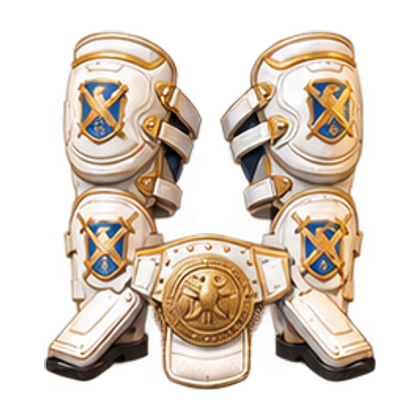
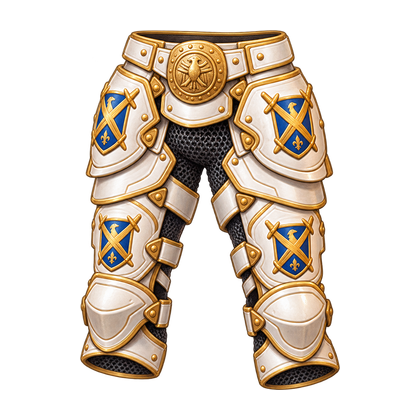
Redesign special scrolls and correct Warrior armor trousers

diff --git a/src/components/icons/SpecialScrollArt.jsx b/src/components/icons/SpecialScrollArt.jsx
@@ -1,0 +1,50 @@
+import {useId} from 'react';
+
+// Centered silhouettes share the same safe area in bags, shops and forge slots.
+export default function SpecialScrollArt({item,size=48}) {
+ const id=useId(),bonus=item.kind==='bonusScroll',race=item.kind==='raceScroll';
+ const accent=bonus?'#c68aff':race?'#66e5ed':'#ffb85b';
+ const dark=bonus?'#472668':race?'#164d61':'#633722';
+ return <svg width={size} height={size} viewBox="0 0 100 100" role="img" aria-label={item.name||'Parşömen'} data-scroll-art={item.kind} style={{display:'block',flexShrink:0,overflow:'hidden'}}>
+  <defs>
+   <linearGradient id={`${id}-paper`} x1="0" y1="0" x2="1" y2="1"><stop stopColor="#fff6d8"/><stop offset=".45" stopColor="#e7cca0"/><stop offset="1" stopColor="#ad7843"/></linearGradient>
+   <linearGradient id={`${id}-gold`} x1="0" y1="0" x2="1" y2="1"><stop stopColor="#7c4b20"/><stop offset=".25" stopColor="#fff1b6"/><stop offset=".48" stopColor="#cc9146"/><stop offset=".7" stopColor="#ffe6a0"/><stop offset="1" stopColor="#87551f"/></linearGradient>
+   <linearGradient id={`${id}-inlay`} x1="0" y1="0" x2="0" y2="1"><stop stopColor={accent}/><stop offset=".5" stopColor={dark}/><stop offset="1" stopColor="#151b2d"/></linearGradient>
+   <radialGradient id={`${id}-gem`} cx=".35" cy=".25"><stop stopColor="#ffffff"/><stop offset=".22" stopColor={accent}/><stop offset="1" stopColor={dark}/></radialGradient>
+  </defs>
+  {bonus&&<g fill={`url(#${id}-gold)`} stroke="#6e401d" strokeWidth=".7">
+   <path d="M29 32L9 22L15 40L26 49L12 43L19 60L29 66ZM71 32L91 22L85 40L74 49L88 43L81 60L71 66Z"/>
+   <path d="M15 31L27 39M19 48L28 55M85 31L73 39M81 48L72 55" fill="none" stroke="#fff0bf"/>
+  </g>}
+  <path d="M24 16H76L72 82H28Z" fill={`url(#${id}-paper)`} stroke="#553a26" strokeWidth="2"/>
+  <path d="M30 25H70L67 74H33Z" fill={dark} stroke={`url(#${id}-gold)`} strokeWidth="2"/>
+  <path d="M34 29H66L63 69H37Z" fill={`url(#${id}-inlay)`} stroke={accent} strokeOpacity=".55" strokeWidth=".8"/>
+  <g fill={`url(#${id}-paper)`} stroke="#674325" strokeWidth="1.5">
+   <path d="M25 13H75Q81 13 81 19Q81 25 75 25H25Q19 25 19 19Q19 13 25 13Z"/>
+   <path d="M27 75H73Q80 75 80 81Q80 87 73 87H27Q20 87 20 81Q20 75 27 75Z"/>
+  </g>
+  <g fill={`url(#${id}-gold)`} stroke="#734922" strokeWidth=".8">
+   {[23,72].map(x=><g key={x}><rect x={x} y="12" width="5" height="14" rx="2"/><rect x={x} y="74" width="5" height="14" rx="2"/></g>)}
+  </g>
+  <path d="M31 16H69M32 78H68" stroke="#fff5d5" strokeWidth="1.5"/>
+  {race?<g strokeLinejoin="round">
+   <path d="M46 38Q40 30 35 39L36 49L41 54L45 49L43 45L46 43Z" fill="#e9f9ed" stroke="#9ae3e7"/>
+   <path d="M54 38L56 31L60 35L65 32L64 41L67 46L63 48L62 54L55 51Z" fill="#8fc8ad" stroke="#d6fbe4"/>
+   <path d="M36 31Q49 23 62 30M58 26L63 30L58 33M64 59Q51 67 38 60M42 57L37 60L42 64" fill="none" stroke="#fff0b2" strokeWidth="1.8"/>
+  </g>:bonus?<g stroke={`url(#${id}-gold)`} strokeLinejoin="round">
+   <path d="M37 37L34 28L43 33L50 25L57 33L66 28L63 37Z" fill={`url(#${id}-gold)`} strokeWidth="1.2"/>
+   <path d="M50 36L63 43L60 59L50 67L40 59L37 43Z" fill="#2a183e" strokeWidth="2"/>
+   <path d="M50 39L58 48L50 60L42 48Z" fill={`url(#${id}-gem)`} strokeWidth="1.3"/>
+   <path d="M50 39V60M42 48H58" fill="none" stroke="#eed6ff" strokeWidth=".7"/>
+   <path d="M33 42L28 48L34 61M67 42L72 48L66 61" fill="none" strokeWidth="2"/>
+  </g>:<g fill="none" strokeLinecap="round" strokeLinejoin="round">
+   <path d="M38 61L58 33L61 29L62 35L43 64M36 55L47 63" stroke="#fff0bc" strokeWidth="2.5"/>
+   <path d="M39 33Q64 43 62 63L39 33M36 32L65 63" stroke="#f4c56f" strokeWidth="1.7"/>
+   <path d="M61 61L40 36" stroke="#dbcaff" strokeWidth="2"/><path d="M38 28L43 33L39 39L34 34Z" fill={`url(#${id}-gem)`} stroke="#ffe7aa" strokeWidth="1"/>
+  </g>}
+  <path d="M44 78L43 95L50 91L57 95L56 78Z" fill={dark} stroke={`url(#${id}-gold)`} strokeWidth="1"/>
+  <circle cx="50" cy="78" r="8" fill={`url(#${id}-gold)`} stroke="#7a4d28"/>
+  <path d="M50 72L54 78L50 84L46 78Z" fill={`url(#${id}-gem)`} stroke="#fff0b5"/>
+  {bonus&&<g fill="#fff0bc"><path d="M15 12L16 16L20 17L16 18L15 22L14 18L10 17L14 16ZM85 64L86 68L90 69L86 70L85 74L84 70L80 69L84 68Z"/><circle cx="84" cy="14" r="1.2"/><circle cx="16" cy="74" r="1.2"/></g>}
+ </svg>;
+}

diff --git a/src/components/icons/ScrollArt.jsx b/src/components/icons/ScrollArt.jsx
@@ -1,9 +1,11 @@
 import {useId} from 'react';
 import {itemTierColor} from '../../data/itemRarity';
 import {boostScrollDef} from '../../data/boostScrolls';
+import SpecialScrollArt from './SpecialScrollArt';
 const marks={raceScroll:'M37 44C36 25 62 25 65 41M60 34L65 42L71 35M66 49C65 67 40 67 37 51M31 57L37 50L44 57',jobScroll:'M39 58L62 30M38 31L63 58M33 52L45 63M56 54L67 43M38 31L38 40L47 40',atk:'M40 57L61 29L65 27L64 33L45 61M38 53L49 63M40 60L36 65',def:'M39 34L51 29L64 34L61 52L51 63L41 53Z',hp:'M39 39C38 28 51 30 51 38C52 27 67 29 64 41L51 58Z',exp:'M51 27L55 39L67 42L56 47L52 60L47 48L36 44L46 39Z',gold:'M51 30L64 39L61 53L49 60L37 50L39 37Z M41 40L59 40L54 52L46 52Z',np:'M42 29L60 29L61 40L66 44L57 58L45 58L36 44L41 40Z M45 36L55 36M44 44L57 44',scroll:'M40 51L52 31L64 51M45 48L52 37L58 48M52 38V62',accessoryScroll:'M43 37L54 31L64 40L59 51L45 54L37 45Z M45 54L42 64L54 66L59 51',bonusScroll:'M51 28L56 40L69 42L59 51L61 64L50 57L39 64L41 51L32 42L46 40Z'};
 export default function ScrollArt({item={},size=48}){
  const id=useId(),kind=item.kind==='boostScroll'?item.boostId:item.kind;
+ if(['raceScroll','jobScroll','bonusScroll'].includes(item.kind))return <SpecialScrollArt item={item} size={size}/>;
  const color=item.kind==='raceScroll'?'#72e5ed':item.kind==='jobScroll'?'#efb45d':item.kind==='boostScroll'?boostScrollDef(item.boostId)?.color:item.kind==='bonusScroll'?'#edc971':item.kind==='accessoryScroll'?'#72d8bb':itemTierColor(item.tier||1);
  return <svg width={size} height={size} viewBox="0 0 100 100" role="img" aria-label={item.name||'Parşömen'} data-scroll-art={kind}>
  <defs><linearGradient id={`${id}-paper`} x1="0" y1="0" x2="1" y2="1"><stop stopColor="#fff3d4"/><stop offset=".45" stopColor="#dbc092"/><stop offset="1" stopColor="#926642"/></linearGradient><linearGradient id={`${id}-gold`}><stop stopColor="#503521"/><stop offset=".35" stopColor="#ffe6a5"/><stop offset=".65" stopColor="#9c733d"/><stop offset="1" stopColor="#ecd2a0"/></linearGradient><radialGradient id={`${id}-seal`}><stop stopColor="#fff3c9"/><stop offset=".3" stopColor={color}/><stop offset="1" stopColor="#382338"/></radialGradient></defs>

diff --git a/src/components/PremiumShop.jsx b/src/components/PremiumShop.jsx
@@ -1,6 +1,6 @@
 import ScrollArt from './icons/ScrollArt';
 import {useState} from 'react';
-import {Crown,Check,Gem,Shuffle,ScrollText,Star} from 'lucide-react';
+import {Crown,Check,Gem,Star} from 'lucide-react';
 import {PREMIUM_TIERS} from '../data/premium';
 import {activePremiumTier,premiumDaysLeft,buyPremium} from '../utils/premium';
 import {addItemToInventory,makeRaceScroll,makeJobScroll,makeBonusScrollStack} from '../utils/inventory';
@@ -101,7 +101,7 @@ return <div className="premium-shop">          <div style={{ fontSize: 10, color
 
           <div style={{ fontSize: 10, color: "var(--text-faint)", marginBottom: 8, letterSpacing: 1, textTransform: "uppercase" }}>{t("shop.scrollsHeader")}</div>
           <div className="rpg-row" style={{ ...styles.itemRow, borderColor: "#8B6FC955" }}>
-            <ScrollText size={18} color="#8B6FC9" />
+            <ScrollArt item={{kind:'raceScroll',name:t('shop.raceScrollTitle')}} size={36}/>
             <div style={{ flex: 1 }}>
               <div style={{ fontSize: 13 }}>{t("shop.raceScrollTitle")}</div>
               <div style={{ fontSize: 10, color: "var(--text-faint)" }}>{t("shop.raceScrollDesc")}</div>
@@ -112,7 +112,7 @@ return <div className="premium-shop">          <div style={{ fontSize: 10, color
             <button className="rpg-action" style={styles.tinyBtn} onClick={buyRaceScroll}>{t("shop.buyShort")}</button>
           </div>
           <div className="rpg-row" style={{ ...styles.itemRow, borderColor: "#5FA8A055", marginTop: 8 }}>
-            <Shuffle size={18} color="#5FA8A0" />
+            <ScrollArt item={{kind:'jobScroll',name:t('shop.jobScrollTitle')}} size={36}/>
             <div style={{ flex: 1 }}>
               <div style={{ fontSize: 13 }}>{t("shop.jobScrollTitle")}</div>
               <div style={{ fontSize: 10, color: "var(--text-faint)" }}>

diff --git a/docs/TRANSPARENT_ARMOR_ICONS.md b/docs/TRANSPARENT_ARMOR_ICONS.md
@@ -18,3 +18,11 @@ Rogue: Same transparent atlas requirements and column order, retaining the exist
 ## Verification
 
 All 50 icons rendered through the actual ItemIcon component at 320, 390 and 768px; no image failures, browser errors or horizontal overflow. Inspected the contact sheets and mobile preview. Production build passed.
+
+## Connected T5 trousers and special scrolls (2026-09-29)
+
+Replaced Warrior T5 legs with a connected armored garment, retaining ivory/gold/blue decoration. Built-in Imagegen edit source: `art-source/warrior-t5-legs-transparent.png`; exported to `src/assets/items/warrior-t5-legs.png`. Export script applies this override after the atlas so regeneration preserves the correction.
+
+Prompt: Replace the detached shin pieces with one connected pair of armored trousers: belt at the top, hips and crotch joining two articulated legs, no feet or loose codpiece. Preserve ivory enamel, engraved gold and blue shield motifs. Hollow garment, front three-quarter view, premium hand-painted RPG inventory icon, centered with transparent alpha and no backdrop, frame, text or glow.
+
+Race/job/bonus scrolls use repo-native SVG artwork in `SpecialScrollArt.jsx`. Race uses paired silhouettes, job uses sword/bow/staff symbols, bonus uses a jeweled gold crest. Centered seals and block SVG layout replace the old right-offset ribbons. Premium shop uses the same artwork. No item rules, effects or prices changed. Four icons checked through ItemIcon at 320/390/768px, including centered 32px forge/bag presentation; production build passed.
